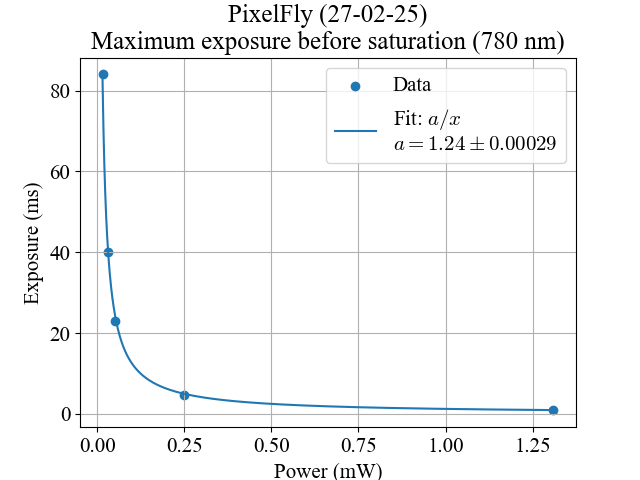
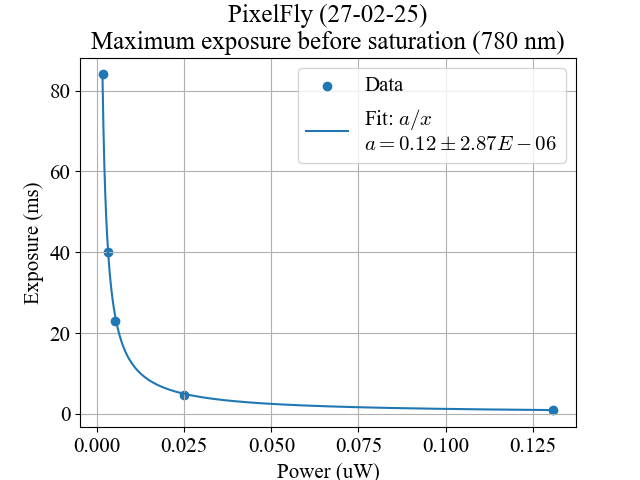
Saturation update

diff --git a/saturation.py b/saturation.py
@@ -1,0 +1,32 @@
+import matplotlib.pyplot as plt
+import pandas as pd
+import sys, os
+import numpy as np
+from scipy.optimize import curve_fit
+sys.path.insert(0, '../MiniPys/formatter')
+import minipy_formatter as MF
+MF.Format().rcUpdate()
+
+# I/O
+date = '27-02-25'
+dirpath = f"./PixelFly/{date}/"
+filename = os.path.join(dirpath, f"saturation_{date}.csv")
+df = pd.read_csv(filename)
+power, exposure = df['Power(uW)'], df['Exposure(ms)']
+
+# Curve fit
+f = lambda x, a: a / x
+opt, cov = curve_fit(f, power, exposure)
+
+# Plots
+P = np.linspace(min(power), max(power), 1000)
+fig, axs = plt.subplot_mosaic([['Saturated']])
+ax = axs['Saturated']
+ax.scatter(power, exposure, label='Data')
+ax.plot(P, f(P, opt[0]), label=f'Fit: $a / x$\n$a={float(opt[0]):.2f}\\pm{float(cov[0]):.2E}$')
+ax.set(title=f'PixelFly ({date})\nMaximum exposure before saturation (780 nm)', xlabel='Power (uW)',
+					 ylabel='Exposure (ms)')
+ax.grid(True)
+ax.legend()
+plt.savefig(os.path.join(dirpath, f'saturation_780nm_{date}.png'))
+plt.show()

diff --git a/extract_saturation.py b/extract_saturation.py
@@ -1,0 +1,28 @@
+import os
+import pandas as pd
+
+date = '27-02-25'
+dirpath = f'./PixelFly/{date}/'
+listdir = os.listdir(dirpath)
+saturated = []
+
+def time_to_float(string):
+	if 'us' in string:
+		return float(string.replace('us', '')) / 1000
+	return float(string.replace('ms', ''))
+
+
+# Attenuation factor is actually 1E-4, but I'll
+# divide by 1E-1 and convert from mW to uW (for the remaining 1E-3 attenuation)
+attenuation_factor = 1E-1
+print(attenuation_factor)
+for file in listdir:
+	if '.png' in file or 'X' in file: continue
+	if "S" in file:
+		power, exposition = file.split('_')[0], file.split('_')[1]
+		power, exposition = float(power.replace('mW', '')) * attenuation_factor,  time_to_float(exposition.replace('S', ''))
+		saturated.append((power, exposition))
+
+df = pd.DataFrame(data=saturated, columns=["Power(uW)", "Exposure(ms)"])
+print(df)
+df.to_csv(os.path.join(dirpath, f"saturation_{date}.csv"))
